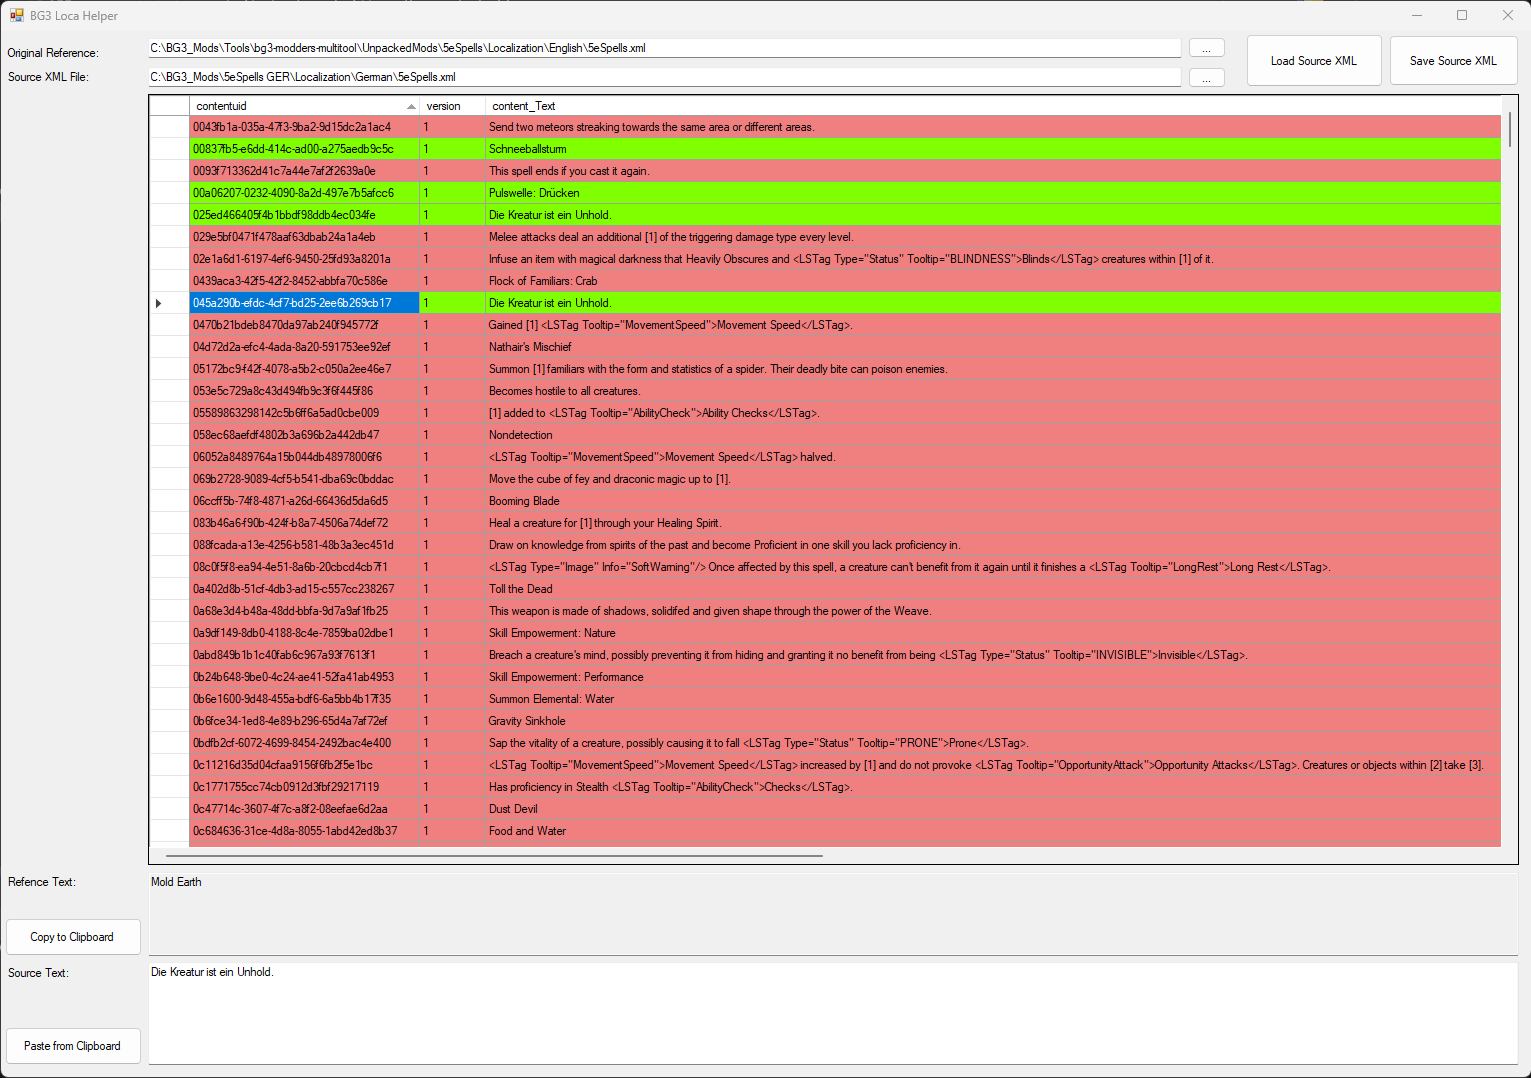
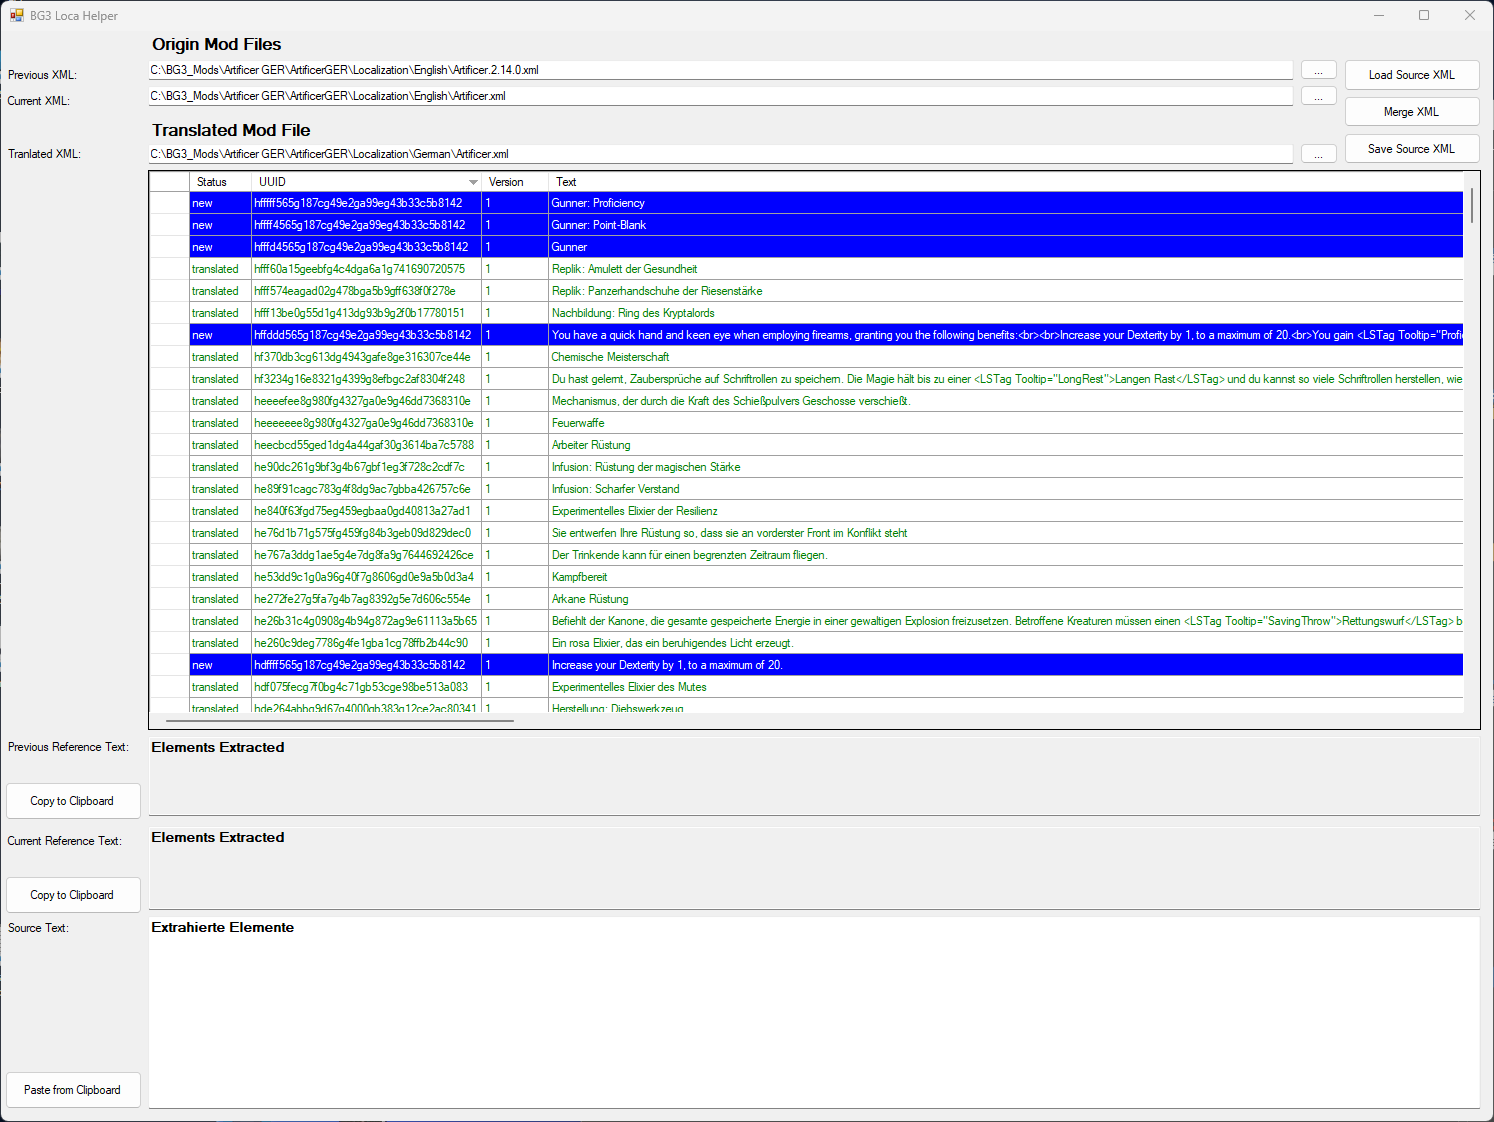
update README

diff --git a/README.MD b/README.MD
@@ -7,3 +7,9 @@ Die Bearbeitung der XML-Dateien erfolgt im Localization-Ordner des jeweiligen Mo
 Diese dient zur Kontrolle der bereits übersetzten Texte.
 
 ![screen1.png](images/screen1.png)
+
+Das Zusammenführen von Änderungen aus Mod-Updates wird nun unterstützt.
+Neue Texte werden hinzugefügt, sobald der Text geändert wurde.
+Nicht mehr vorhandene Texte werden beim Speichern gelöscht.
+
+![screen1.png](images/screen2.png)
